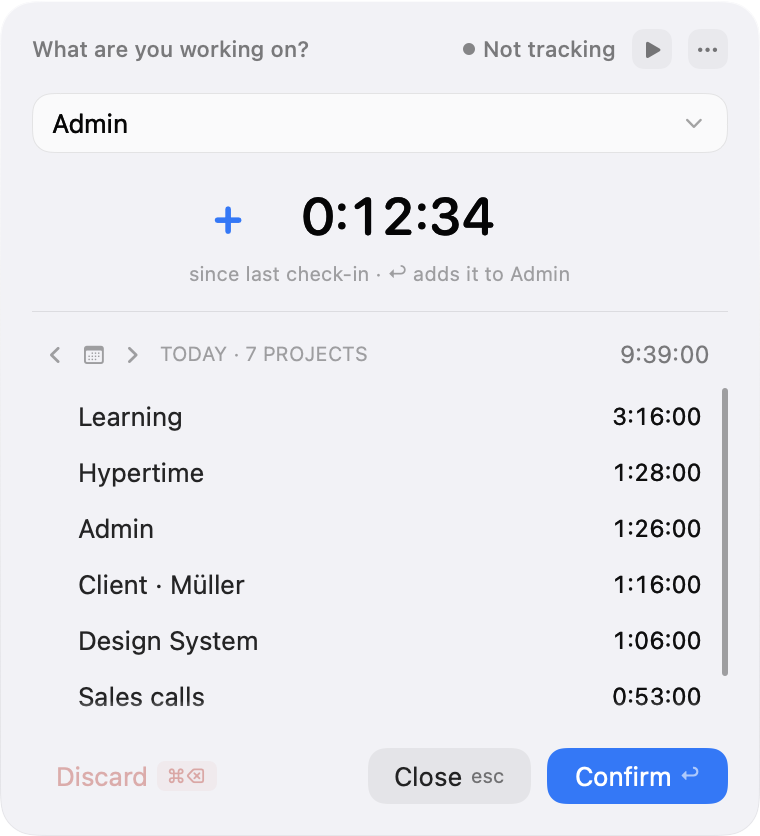
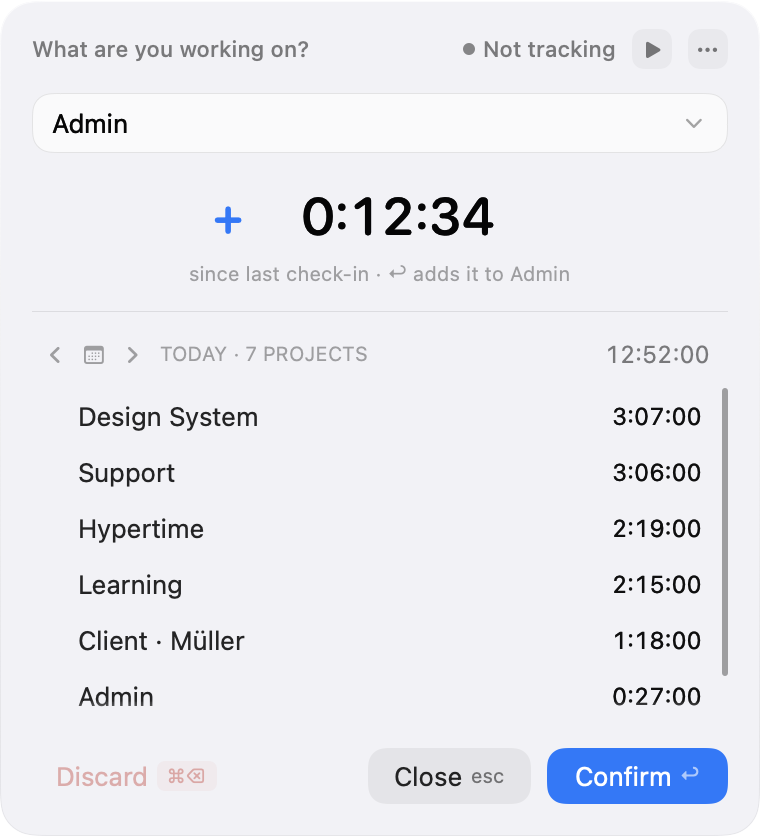
ui: animate the remaining state changes, and document Phase 4
Tracking/paused crossfades, day changes and today-list rows, the Reports period
and chart/table switch, and chart bars resizing when the filter changes — all
collapsing to the 120 ms crossfade under Reduce Motion.

README covers tasks, the chart and the popup's day navigation; the Phase 4 spec
is marked built with the one decision the build changed.

diff --git a/Sources/Hypertime/Views/CheckIn/TodayListView.swift b/Sources/Hypertime/Views/CheckIn/TodayListView.swift
@@ -26,6 +26,8 @@ struct TodayListView: View {
         .help(help)
     }
 
+    @Environment(\.accessibilityReduceMotion) private var reduceMotion
+
     var body: some View {
         VStack(alignment: .leading, spacing: Tokens.Space.s1) {
             HStack(spacing: 2) {
@@ -88,6 +90,8 @@ struct TodayListView: View {
                 .scrollIndicators(.hidden)
                 .frame(height: visibleHeight)
                 .edgeFade(top: scrollOffset > 1, bottom: scrollOffset + visibleHeight < contentHeight - 1)
+                .animation(Tokens.Motion.listOpen.animation(reduceMotion: reduceMotion),
+                           value: viewModel.todayRows.map(\.project.id))
                 .overlay {
                     ThinScrollIndicator(contentHeight: contentHeight, visibleHeight: visibleHeight, offset: scrollOffset)
                 }

diff --git a/Sources/Hypertime/Views/Reports/ReportsView.swift b/Sources/Hypertime/Views/Reports/ReportsView.swift
@@ -8,6 +8,7 @@ struct ReportsView: View {
     var onExport: () -> Void
 
     @Environment(\.colorScheme) private var scheme
+    @Environment(\.accessibilityReduceMotion) private var reduceMotion
 
     private let nameColumn: CGFloat = 160
     private let totalColumn: CGFloat = 82
@@ -18,6 +19,10 @@ struct ReportsView: View {
             Hairline()
             content
                 .frame(maxWidth: .infinity, maxHeight: .infinity, alignment: .topLeading)
+                .animation(Tokens.Motion.listOpen.animation(reduceMotion: reduceMotion),
+                           value: viewModel.presentation)
+                .animation(Tokens.Motion.listOpen.animation(reduceMotion: reduceMotion),
+                           value: viewModel.title)
             Hairline()
             footer
         }

diff --git a/Sources/Hypertime/Views/Reports/ActivityChartView.swift b/Sources/Hypertime/Views/Reports/ActivityChartView.swift
@@ -10,6 +10,7 @@ import HypertimeCore
 /// table view carries the same numbers.
 struct ActivityChartView: View {
     @Bindable var viewModel: ReportsViewModel
+    @Environment(\.accessibilityReduceMotion) private var reduceMotion
 
     private let barMaxHeight: CGFloat = 220
     private let legendColumns = [GridItem(.adaptive(minimum: 150), spacing: Tokens.Space.s2)]
@@ -26,6 +27,8 @@ struct ActivityChartView: View {
         }
         .padding(Tokens.Space.s4)
         .frame(maxWidth: .infinity, maxHeight: .infinity, alignment: .topLeading)
+        .animation(Tokens.Motion.listOpen.animation(reduceMotion: reduceMotion),
+                   value: viewModel.hiddenProjects)
     }
 
     private var empty: some View {

diff --git a/Sources/Hypertime/Views/CheckIn/CheckInView.swift b/Sources/Hypertime/Views/CheckIn/CheckInView.swift
@@ -77,6 +77,9 @@ struct CheckInView: View {
             }
         }
         .animation(Tokens.Motion.listOpen.animation(reduceMotion: reduceMotion), value: viewModel.showsProjectList)
+        .animation(Tokens.Motion.pauseCrossfade.animation(reduceMotion: reduceMotion), value: viewModel.isPaused)
+        .animation(Tokens.Motion.pauseCrossfade.animation(reduceMotion: reduceMotion), value: viewModel.isTracking)
+        .animation(Tokens.Motion.listOpen.animation(reduceMotion: reduceMotion), value: viewModel.visibleDay)
         .frame(width: Self.width)
         .coordinateSpace(.named("panel"))
         .background { GlassBackground(style: material, cornerRadius: Tokens.Radius.panel) }

diff --git a/docs/DECISIONS.md b/docs/DECISIONS.md
@@ -103,3 +103,7 @@ Everything in `PLAN.md` has been built. What remains needs a person, not more co
 | 2026-10-14 | R-17/R-18 | The popup's list steps through days: ‹ calendar › on the header row, the label turning accent and naming the day when off today, edits landing on the day shown, and the total following it. The calendar marks every day that has tracked time with an accent dot. | User request. Day navigation existed in Reports but nothing in the popup pointed at it. `Period.monthGrid` holds the date maths so it is testable without a view. |
 | 2026-10-14 | Phase 4 chart | Reports gains a chart/table toggle. Day shows one bar per project; week, month and year bucket by day (or month) and stack the projects inside each bar. The legend doubles as the filter: tick to hide, click a project — in the legend or in a bar — to show it alone, "Select all" to reset. | User request. The toggle rather than a second window keeps one set of period controls and one navigation model. |
 | 2026-10-14 | Phase 4 chart | Series colours are the dataviz skill's validated categorical palette, assigned in fixed order **from the unfiltered ranking** and never cycled; a ninth project folds into a neutral "Other". Validator run for both modes: worst adjacent CVD ΔE 9.1 light / 8.4 dark against an ≥8 target, normal-vision 19.6 / 19.3 against an ≥15 floor. | Assigning from the filtered list would repaint the survivors every time a box is unticked, which breaks the one rule that makes a colour mean something. Three light slots sit under 3:1 contrast, so the relief rule applies — the legend labels every series and the table view carries the same numbers. |
+| 2026-10-14 | TD-03 | When a running task stops, the check-in clock restarts from that moment instead of firing the check-ins it skipped. | Written as "the interval resumes when the task stops". Without the reset, stopping a two-hour task fired an overdue check-in immediately and another one a minute later — a test caught it. |
+| 2026-10-14 | T-xx | The task type is `TaskItem`, not `Task`. | `Task` shadows Swift concurrency's `Task` in every file that imports the module; `AppModel` broke on it immediately. The table and the UI both still say "task". |
+| 2026-10-14 | T-16 | Row animations are driven by the panel, not the view model: the view model sets `completingTaskID` / `deletingTaskID` and the panel calls back when the motion has played out. | The same split the confirm bounce uses. It keeps timing in one layer and means a row is only really gone once it has finished leaving. |
+| 2026-10-14 | Phase 4 | Animated the remaining state changes: tracking/paused crossfades, day changes and today-list rows, the Reports period and chart/table switch, and chart bars resizing when the filter changes. All collapse to the 120 ms crossfade under Reduce Motion. | "Nice little animations to all state changes." |

diff --git a/README.md b/README.md
@@ -89,10 +89,29 @@ dates.
 
 A single project can hold at most 24 hours on one day.
 
+## Tasks
+
+The popup carries a todo list above the day breakdown. `+` opens a task under the project in the
+field. Click a task and it takes the clock — its time books to the task *and* to its project, so
+the project total always contains its tasks rather than sitting beside them. Click it again to
+pause; starting another task parks the first. The checkmark finishes a task: it leaves the list,
+its time stays.
+
+Give a task a timer from its `⋯` menu and the row counts down. At zero Hypertime comes forward
+and asks: **Finish**, or **Keep working** — which drops the countdown and carries on. While a
+task is running the regular check-in stays quiet, because the question is already answered.
+
+Unfinished tasks carry over to the next day. The `⋯` menu also moves a task to another project,
+renames it, and deletes it — deleting keeps the time on the project, since the work happened.
+
 ## Reports and editing
 
-**Reports…** (⌘R, or the menu bar menu) opens day, week, month and year views.
+**Reports…** (⌘R, the `⋯` menu in the popup, or the menu bar menu) opens day, week, month and
+year views. The popup itself steps through days with `‹ calendar ›` — days with tracked time
+carry a dot in the calendar.
 
+- **Chart or table**, toggled in the toolbar. The chart stacks projects per day (or per month
+  for a year); tick a project to hide it, click one to show it alone, "Select all" to reset.
 - **Day** lists every project with time that day; click a total to set it.
 - **Week** is a project × day grid; every cell is editable, and today's column is tinted.
 - **Month** shows one intensity square per day — click one to open that day.
@@ -140,7 +159,7 @@ Back it up by copying that file. If it ever becomes unreadable, Hypertime moves 
 ## Development
 
 ```bash
-swift test                  # 105 tests over HypertimeCore
+swift test                  # 129 tests over HypertimeCore
 scripts/run.sh              # build dist/Hypertime.app and launch it
 scripts/run.sh --seed-demo  # same, against a seeded demo database
 scripts/release.sh          # signed .app + .zip + .dmg in dist/

diff --git a/CLAUDE.md b/CLAUDE.md
@@ -4,8 +4,9 @@ Start with `docs/PLAN.md`. It is the contract: requirement IDs (R-xx), decisions
 assumptions (A-xx), component specs, and the phase plan with acceptance checklists.
 `docs/DESIGN_BRIEF.md` describes the design handoff that Phase 2 consumes.
 `docs/DECISIONS.md` records every decision that refines or deviates from the plan.
+`docs/PLAN-PHASE4-TASKS.md` is the tasks contract (built).
 
-Status: **Phases 0–3 complete.** The design handoff lives in `docs/design-handoff/handoff/`
+Status: **Phases 0–4 complete.** The design handoff lives in `docs/design-handoff/handoff/`
 (`tokens.json`, `HANDOFF.md`, SVG assets). What is still open is listed at the bottom of
 `docs/DECISIONS.md`: the manual checklist items that need a person at the keyboard, and the
 artboard-drift pass (the artboards were not part of the handoff zip).
@@ -23,7 +24,7 @@ artboard-drift pass (the artboards were not part of the handoff zip).
 ## Commands
 ```bash
 swift build
-swift test                              # 105 tests, swift-testing (import Testing)
+swift test                              # 129 tests, swift-testing (import Testing)
 swift test --enable-code-coverage
 scripts/build-app.sh                    # -> dist/Hypertime.app (ad-hoc signed)
 scripts/run.sh                          # kills running instance, builds, opens

diff --git a/docs/PLAN-PHASE4-TASKS.md b/docs/PLAN-PHASE4-TASKS.md
@@ -1,4 +1,9 @@
-# Phase 4 — Tasks (spec for sign-off)
+# Phase 4 — Tasks (built)
+
+> **Status: built as written.** The three decisions in §8 were taken as proposed. One thing the
+> build added: when a task stops, the check-in clock *restarts* rather than firing the backlog it
+> skipped — "the interval resumes" (TD-03) read as resuming, not catching up. A test pins it.
+
 
 Everything else in the Phase 4 batch (day navigation, the chart, the overflow menu, the sticky
 window, animations) is specified well enough to build directly. Tasks are not, so this is the
